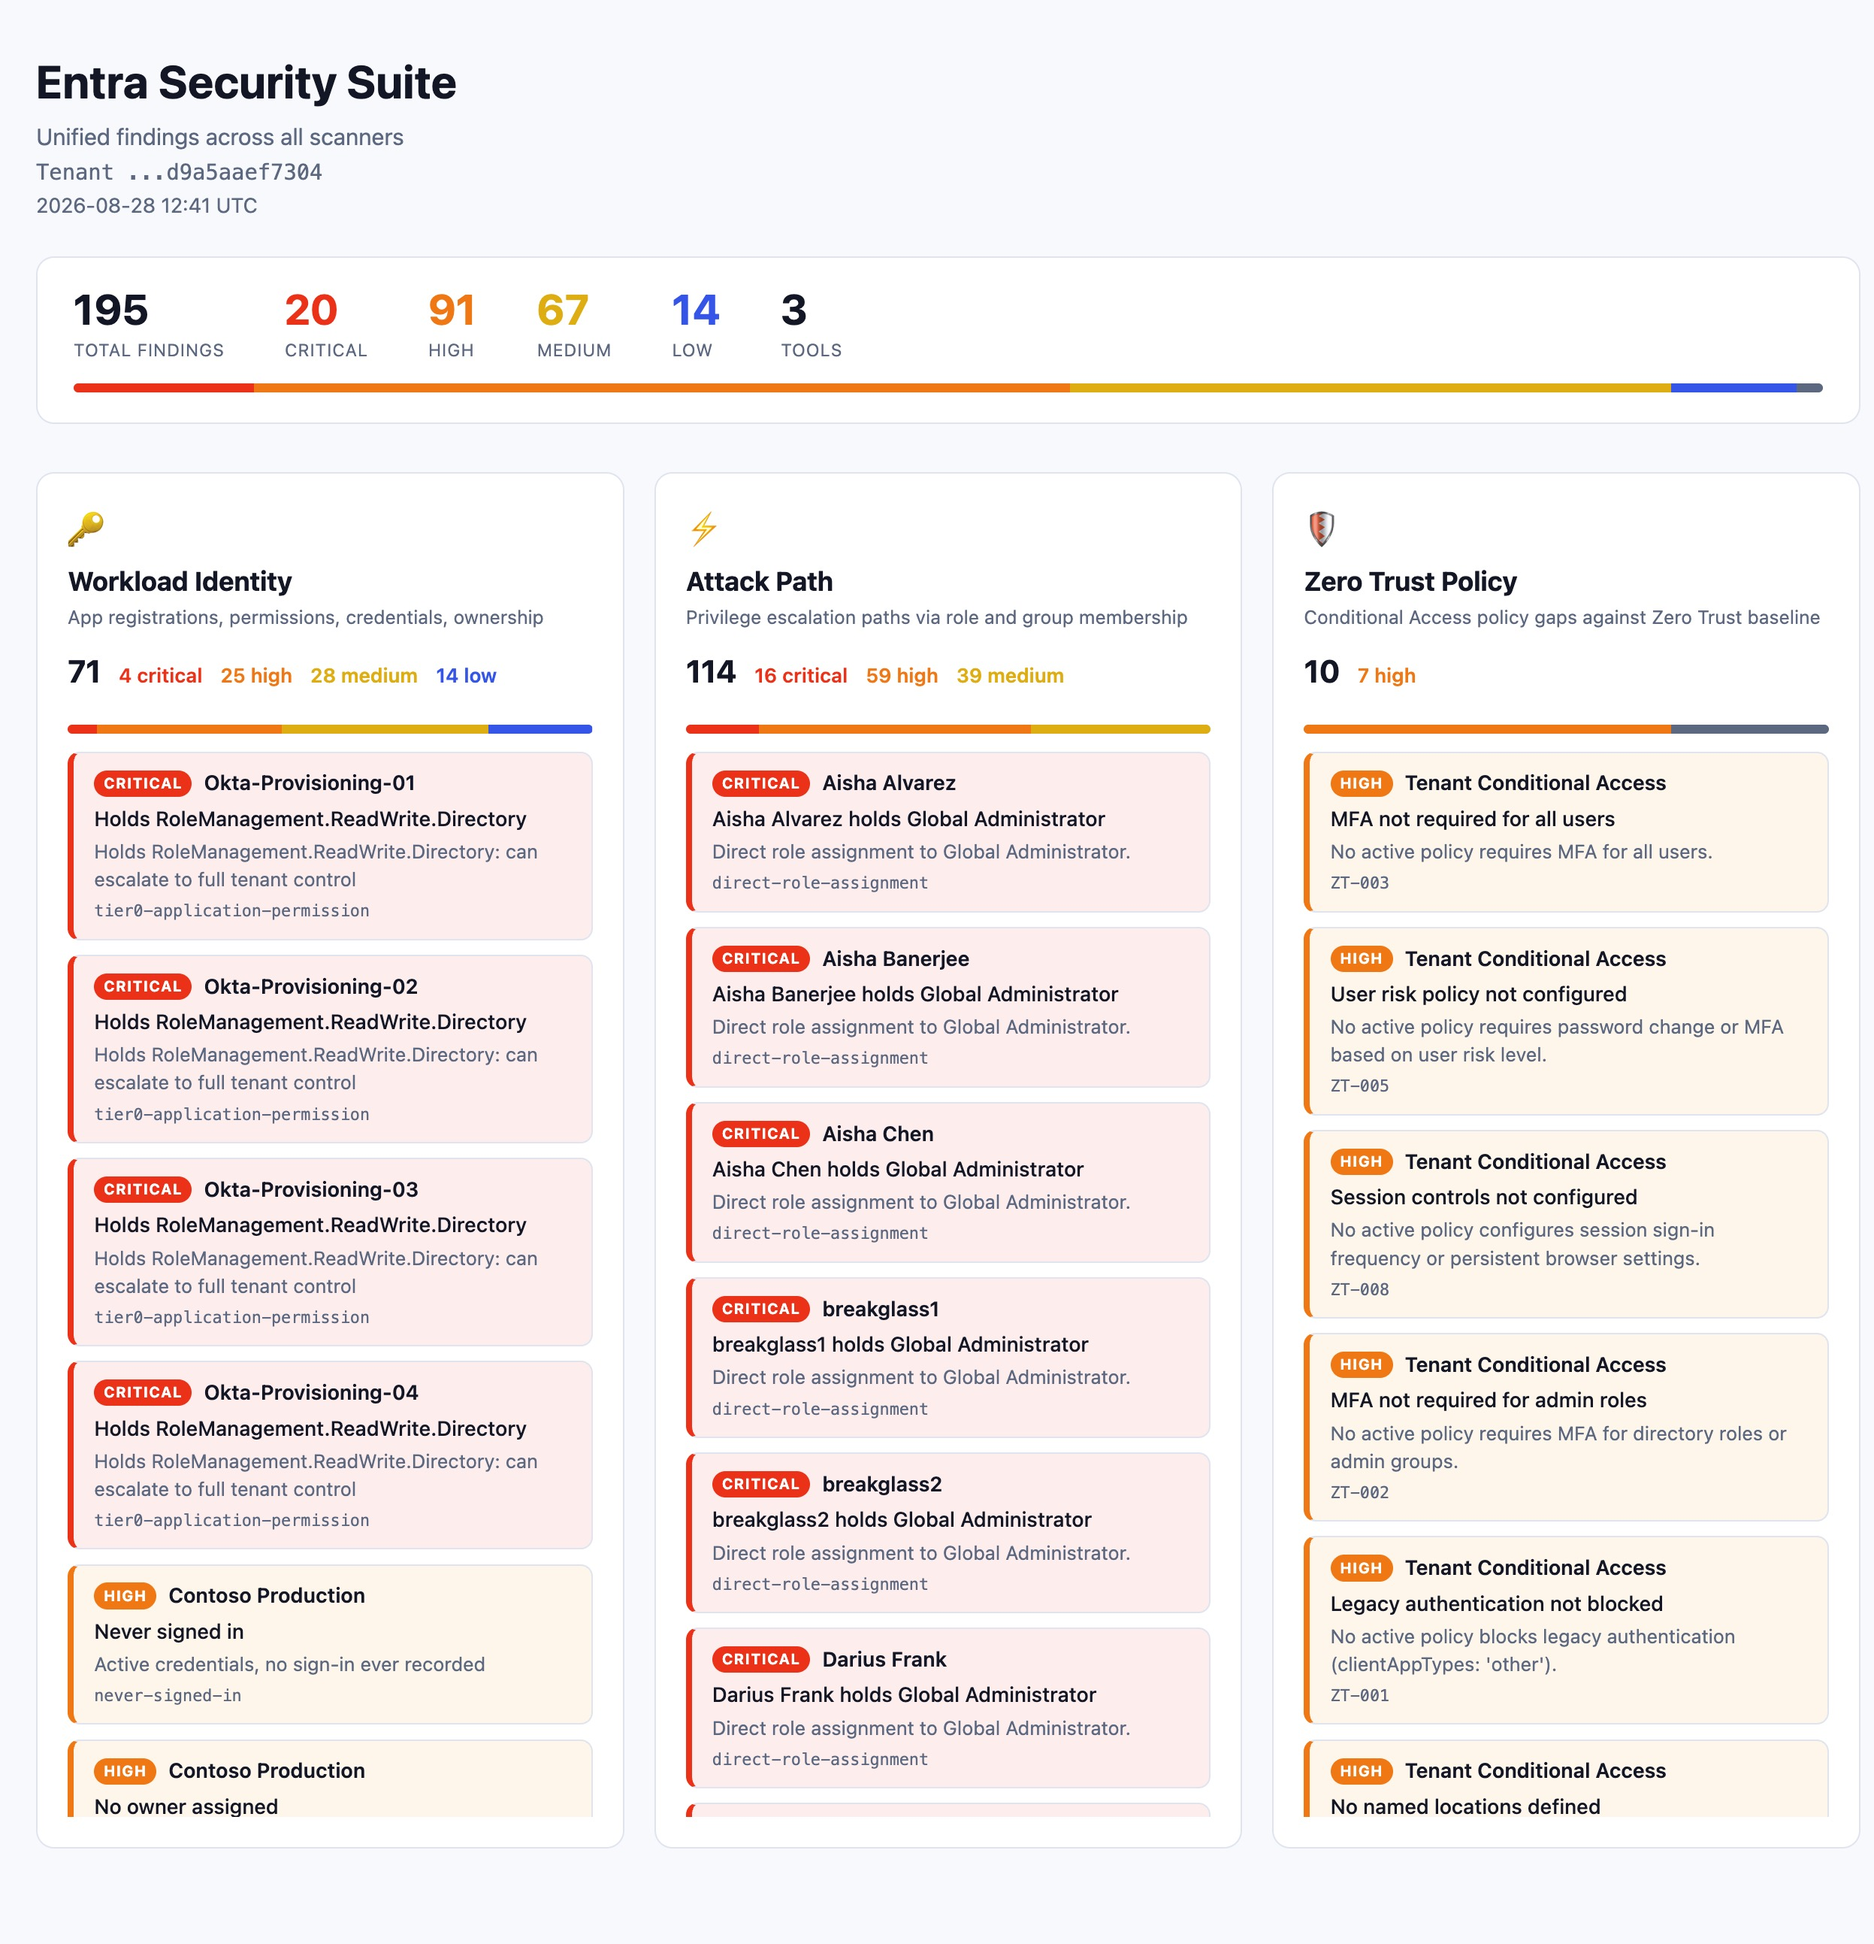
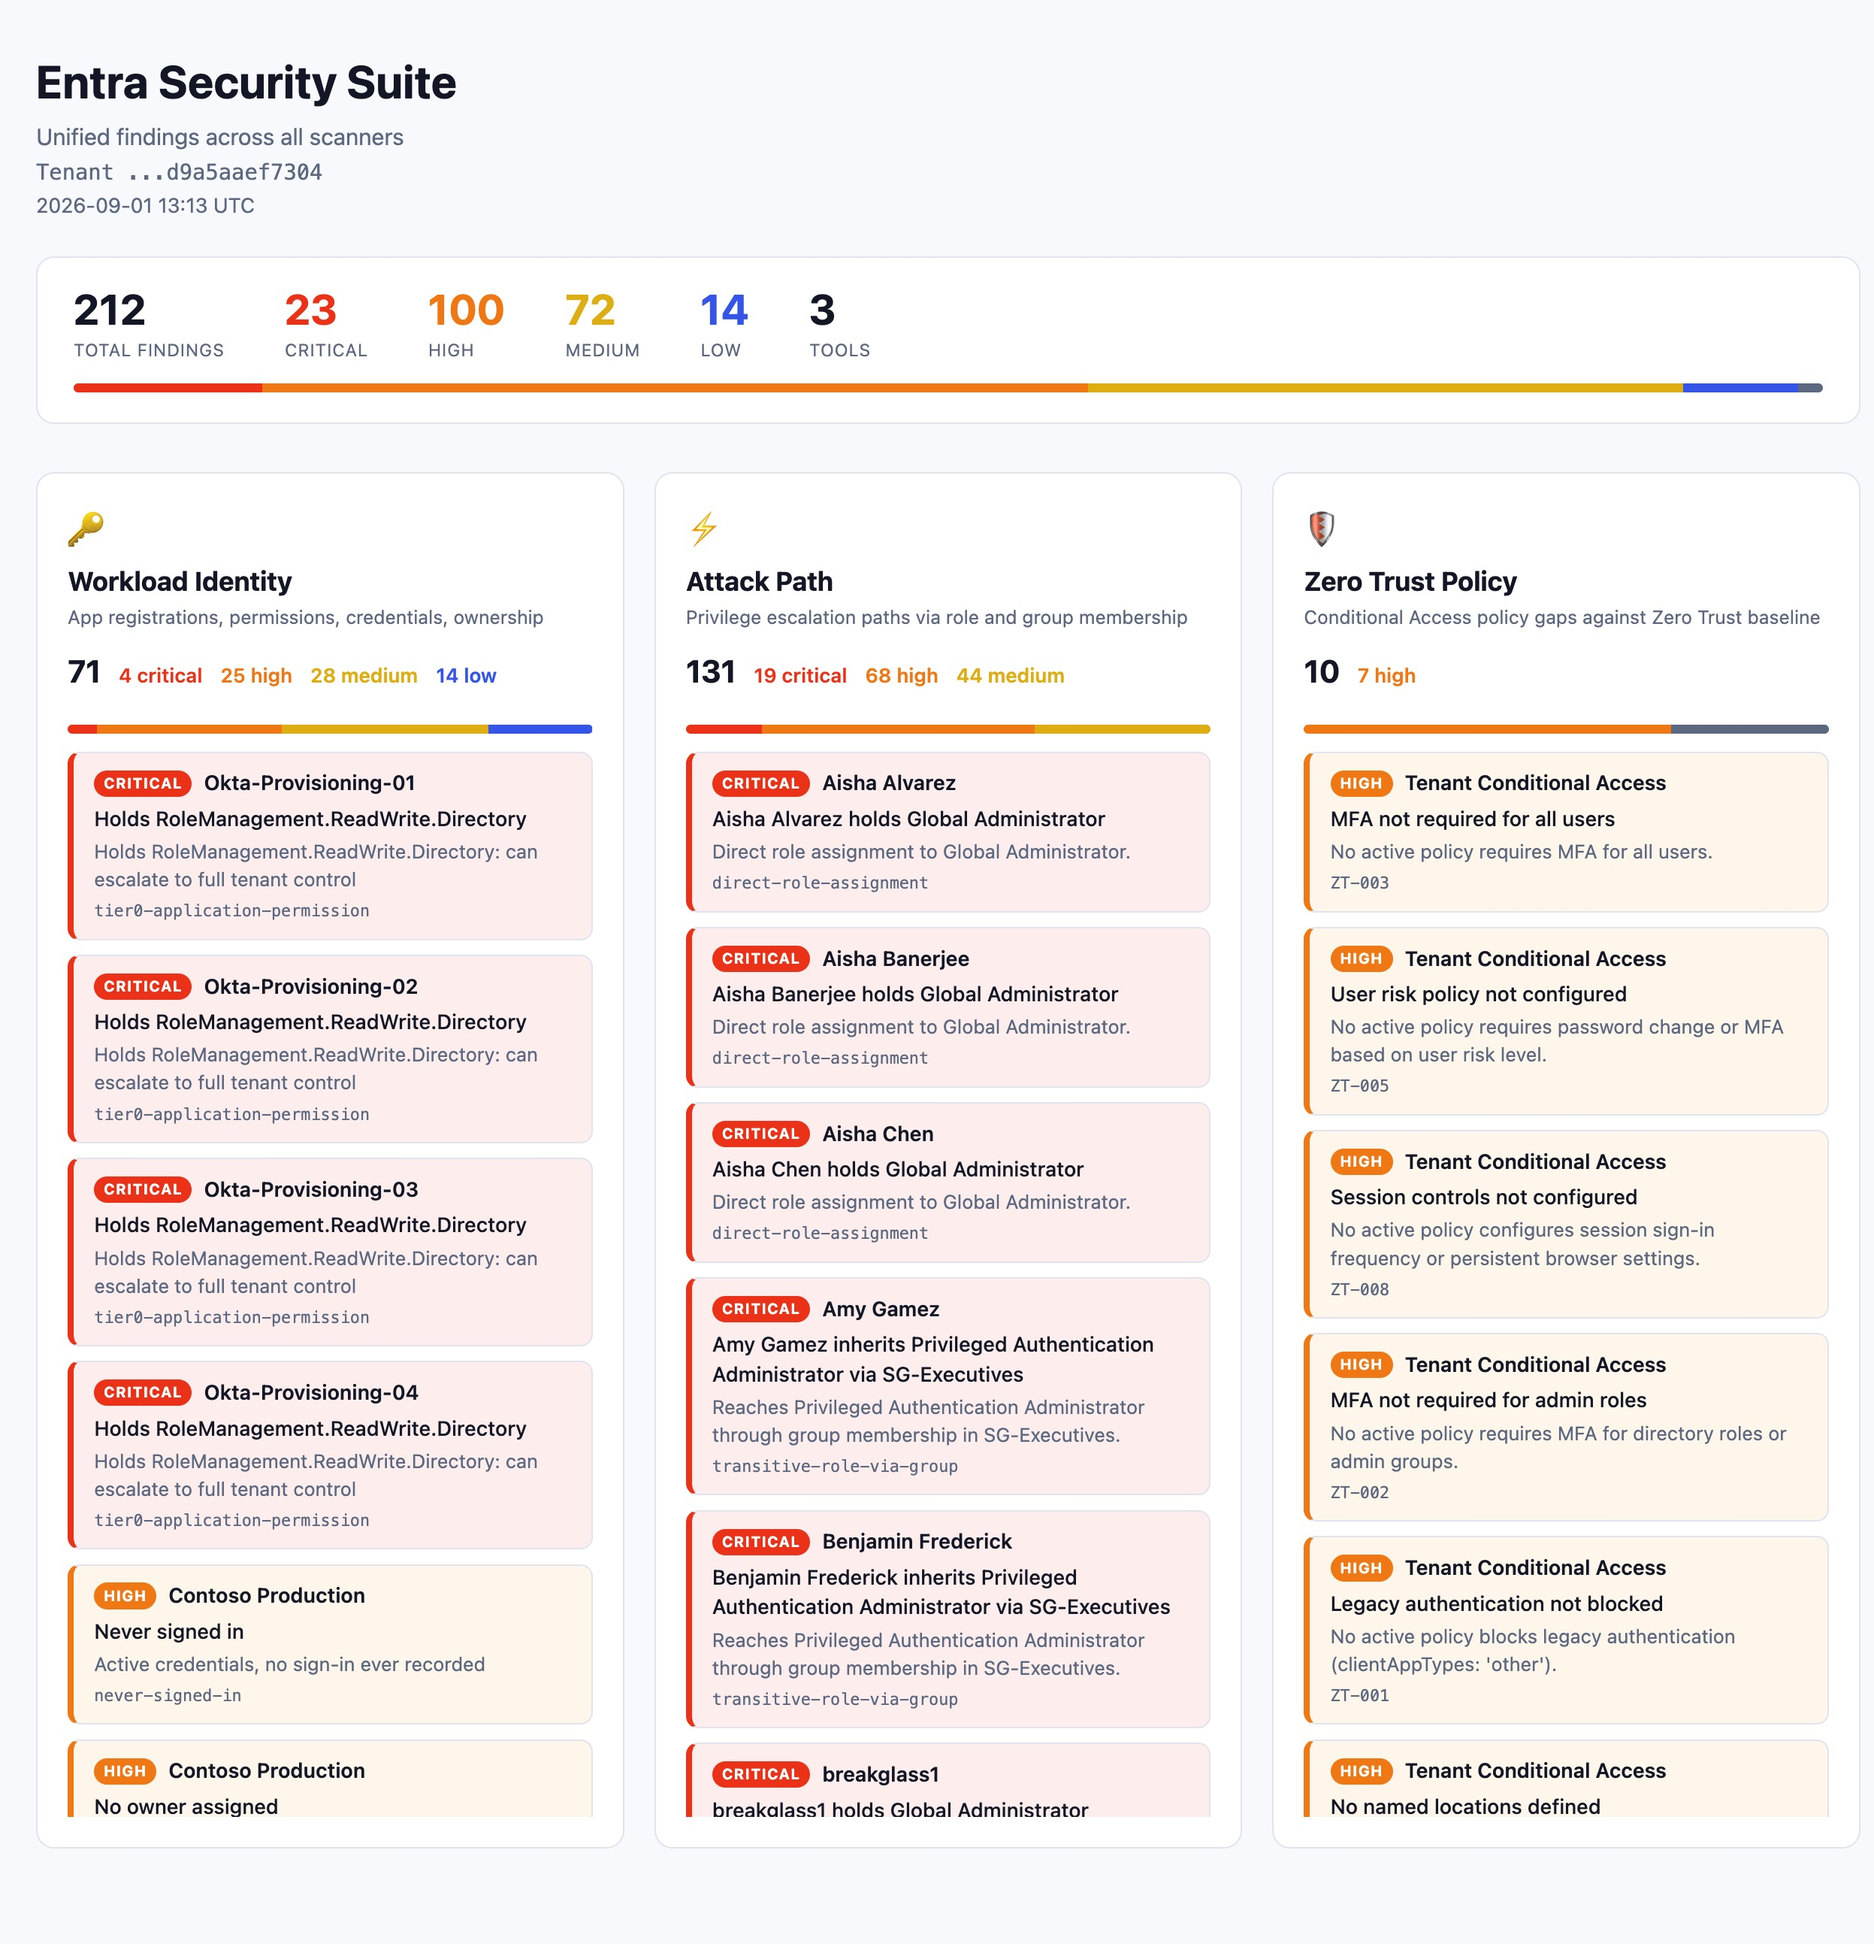
replaced screenshot with updated output from bothtenants

diff --git a/docs/case-study-okta-provisioning.md b/docs/case-study-okta-provisioning.md
@@ -1,0 +1,82 @@
+# Case Study: From Compromised User to Full Tenant Takeover in Three Steps
+
+## Overview
+
+During a multi-tenant security assessment of a simulated enterprise environment, the Entra Orchestrator correlated findings across three independent scanners and surfaced a critical attack chain. A single compromised user account could escalate to full tenant control through an overprivileged application registration.
+
+This write-up walks through the finding, explains why each link in the chain matters, and details the remediation.
+
+## Environment
+
+Two Entra ID tenants connected via Cross-Tenant Synchronization:
+
+- **WorkforceLab** (source): 751 users, 52 groups, 201 apps -- simulates a central workforce directory
+- **dfrank-iam** (target): 567 users (250 native + 300 synced from WorkforceLab), 57 groups, 71 apps -- simulates a managed tenant receiving external identities
+
+The scanners ran against dfrank-iam, the tenant where internal resources and cross-tenant identities converge.
+
+## The Finding
+
+**Severity:** Critical
+
+**Application:** Okta-Provisioning-01
+
+**Permission:** `RoleManagement.ReadWrite.Directory` (application-level)
+
+**Owner:** Omar Delgado
+
+**Omar Delgado's group memberships:**
+- SG-Application-Owners (inherits Application Administrator)
+- SG-IT-Admins (inherits Helpdesk Administrator)
+
+## The Attack Chain
+
+### Step 1: Compromise the user
+
+Omar Delgado is a regular employee who belongs to two security groups. He has no direct admin role assignment, so he looks low-risk at first glance. But his group memberships give him two inherited directory roles, including Application Administrator.
+
+An attacker compromises Omar's account through phishing, credential stuffing, or session hijacking. Because there is no Conditional Access policy requiring MFA for admin roles (also flagged in this assessment), the attacker authenticates without a second factor.
+
+### Step 2: Abuse Application Administrator to modify the app
+
+As an Application Administrator and owner of Okta-Provisioning-01, Omar (now the attacker) can:
+
+- Add a new client secret to the application
+- Modify the application's redirect URIs
+- Consent to additional permissions
+
+The attacker generates a new client secret for Okta-Provisioning-01 and authenticates as the application's service principal.
+
+### Step 3: Use the app's permissions to take over the tenant
+
+Okta-Provisioning-01 holds `RoleManagement.ReadWrite.Directory` as an application permission. This permission allows the holder to assign any directory role to any principal, including Global Administrator.
+
+The attacker, now operating as the Okta-Provisioning-01 service principal, calls the Microsoft Graph API to assign the Global Administrator role to their own user account (or a new account they create). They now have full control of the tenant.
+
+**Total steps from compromised user to Global Admin: 3**
+
+## Why the Orchestrator Caught This
+
+No single scanner detected the full chain:
+
+- The **Workload Identity Scanner** flagged Okta-Provisioning-01 as critical because it holds `RoleManagement.ReadWrite.Directory`. But it does not analyze who owns the app or what roles those owners hold.
+- The **Attack Path Visualizer** flagged Omar Delgado's transitive role inheritance through SG-Application-Owners and SG-IT-Admins. But it does not examine which applications those users own or what permissions those apps hold.
+- The **Zero Trust Policy Engine** flagged the missing MFA policy for admin roles. But it does not connect that gap to specific users or applications.
+
+The Orchestrator joined the ownership data from the Workload Identity Scanner with the privilege escalation paths from the Attack Path Visualizer. It identified that the owner of a Tier 0 application also has an escalation path to Application Administrator, which means the same person who can modify the app's credentials already has the directory role required to do so.
+
+## Remediation
+
+1. **Remove `RoleManagement.ReadWrite.Directory` from Okta-Provisioning-01.** This permission is almost never needed for SCIM provisioning. Replace it with the minimum scoped permissions the integration actually requires (typically `User.ReadWrite.All` and `Group.ReadWrite.All`).
+
+2. **Remove Omar Delgado as owner of Okta-Provisioning-01.** Application ownership should be assigned to a service account or a small, tightly controlled admin group, not to individual employees who hold other privileged roles.
+
+3. **Restrict the SG-Application-Owners group.** Review membership and remove users who do not need Application Administrator. Consider breaking this into scoped groups per application rather than one group that grants blanket app admin.
+
+4. **Enforce MFA for all admin roles via Conditional Access.** This was flagged separately by the Zero Trust Policy Engine. Requiring MFA for any user with a directory role assignment (direct or inherited) would block the initial compromise from escalating.
+
+5. **Implement Privileged Identity Management (PIM) for Application Administrator.** Make the role eligible rather than permanently assigned, requiring just-in-time activation with approval and MFA.
+
+## Conclusion
+
+This finding demonstrates why cross-tool correlation matters. The dangerous configuration was not a single misconfiguration but a combination of three independently reasonable decisions: an integration app with broad permissions, a convenience group that grants Application Administrator, and a missing Conditional Access policy. Each scanner saw one piece. The Orchestrator saw the chain.
